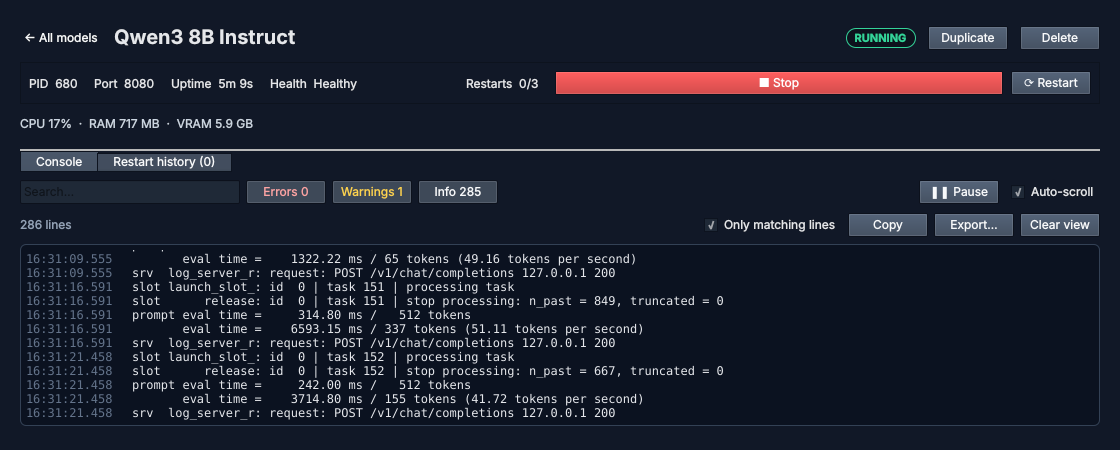
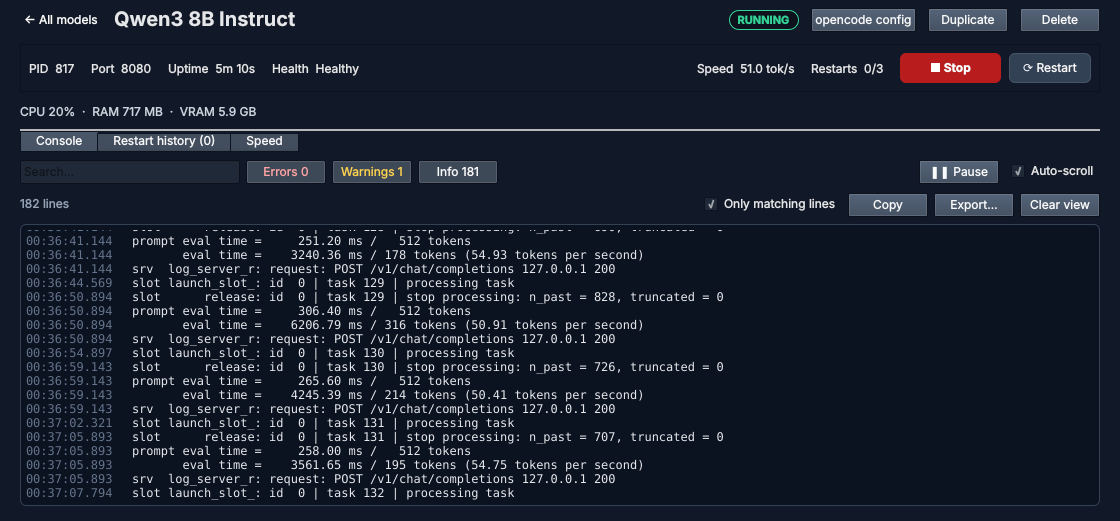
docs: refresh the README and screenshots for 0.2.0
Describe the alias, the opencode config, and generation speed in the introduction, features, getting started, everyday use, and limitations; replace the screenshots and add the speed tab and opencode dialog; mark CI releases as done in the roadmap.

Claude-Session: https://claude.ai/code/session_011M7cGVZ1QATJ6LT2vgEiWh

Changed region(s): [[0.0, 0.4044, 0.6562, 0.9644], [0.0, 0.0, 1.0, 0.5289], [0.4062, 0.0, 1.0, 0.2178]]

diff --git a/README.md b/README.md
@@ -2,7 +2,7 @@
 
 **A Windows desktop app for running and supervising local [llama.cpp](https://github.com/ggml-org/llama.cpp) `llama-server` instances.**
 
-Point it at your own `llama-server.exe` and GGUF models, then start, stop, and monitor any number of models from one window. A background Agent keeps them running when the window is closed, restarts crashed or unresponsive servers, and shows CPU, RAM, GPU, and VRAM usage live.
+Point it at your own `llama-server.exe` and GGUF models, then start, stop, and monitor any number of models from one window. A background Agent keeps them running when the window is closed, restarts crashed or unresponsive servers, and shows CPU, RAM, GPU, and VRAM usage and each model's generation speed live. Give a model a stable ID and it hands you a ready-made [opencode](https://opencode.ai) config for it.
 
 ![Platform](https://img.shields.io/badge/platform-Windows%2010%20%7C%2011%20x64-0078D6)
 ![Qt](https://img.shields.io/badge/Qt-6.5%2B-41CD52)
@@ -10,27 +10,29 @@ Point it at your own `llama-server.exe` and GGUF models, then start, stop, and m
 ![CMake](https://img.shields.io/badge/CMake-3.24%2B-064F8C)
 [![License: MIT](https://img.shields.io/badge/license-MIT-blue)](LICENSE)
 
-![Llama Server Manager dashboard with five models and live CPU, RAM, GPU, and VRAM charts](docs/images/dashboard.png)
+![Llama Server Manager dashboard with five models, their generation speed, and live CPU, RAM, GPU, and VRAM charts](docs/images/dashboard.png)
 
 ## Features
 
-- **Many models, one window** — every model is a card with its state, address, PID, uptime, and one-click Start/Stop and Restart. Each model has its own profile: executable, GGUF file, context size, GPU layers, threads, parallel slots, extra arguments, and environment variables.
+- **Many models, one window** — every model is a card with its state, address, PID, uptime, generation speed, and one-click Start/Stop and Restart. Each model has its own profile: executable, GGUF file, context size, GPU layers, threads, parallel slots, extra arguments, and environment variables.
 - **Keeps running without the GUI** — models are owned by a separate Agent process. Close the window (or let it crash) and your servers keep serving; reopen it and everything reconnects.
 - **Watchdog** — HTTP health checks on `/health`, crash detection, and automatic restarts with exponential backoff and a restart limit, so a broken model does not restart forever. A manual Stop is always respected. Every failure is kept in a restart history.
 - **Live resource dashboard** — system CPU and RAM plus NVIDIA GPU utilization, VRAM, temperature, and power, each with a 5-minute chart. Every model card also shows that server's own CPU, RAM, and VRAM.
 - **Console** — live stdout/stderr per model with search, Error/Warning/Info filters, pause, copy, and export. Logs are also written to disk with size limits and rotation.
 - **Lives in the system tray** — closing the window keeps everything running in the tray, with a status dot, per-model Start/Stop/Restart, and a notification when a model fails. Optionally start at sign-in, with your chosen models loading automatically.
-- **Generation speed** — tokens per second for each model, read from llama-server's `/slots` once per second, with a 5-minute chart on the model page.
-- **Ready for opencode** — give a model a stable `--alias` ID, then let the model page read `/v1/models` and `/props` and produce an `opencode.json` provider entry to copy.
+- **Generation speed** — tokens per second for each model, read from llama-server's `/slots` once per second: live on every card, with the last request's average and a 5-minute chart on the model page.
+- **Ready for opencode** — tick **Alias** to give a model a stable API model ID (`--alias`) instead of its file path. While it runs, **opencode config** reads `/v1/models` and `/props` and shows an `opencode.json` provider entry with the right ID, context size, and API key, ready to copy.
 - **Convenience** — duplicate a profile to try other settings, and stop all models and the Agent with one Stop Agent button.
 - **English and Traditional Chinese** user interface, switchable at any time.
 - **Nothing extra to install** — no Docker, Python, Ollama, or LM Studio. It uses the llama.cpp build and models you already have and never modifies them.
 
 ## Screenshots
 
-| Console with level filters | 繁體中文介面 |
+| Console with level filters | Generation speed |
 | --- | --- |
-| ![A model's console with search, error/warning/info filters, and llama-server output](docs/images/console.png) | ![The dashboard in Traditional Chinese](docs/images/dashboard-zh-TW.png) |
+| ![A model's console with search, error/warning/info filters, and llama-server output](docs/images/console.png) | ![A model's Speed tab with the current tokens per second and a 5-minute chart](docs/images/speed.png) |
+| **opencode config** | **繁體中文介面** |
+| ![The opencode config dialog with a provider entry for the model's alias](docs/images/opencode.png) | ![The dashboard in Traditional Chinese](docs/images/dashboard-zh-TW.png) |
 
 The screenshots use sample data produced by the test doubles in [`tests/`](tests) (a stand-in server and NVML library), not a real GPU.
 
@@ -62,11 +64,11 @@ The releases are not code-signed yet, so the first time you run them Windows Sma
 ## Getting started
 
 1. Run the installer, or `llama-manager.exe` from a build. It starts the Agent in the background.
-2. Click the **+** card, give the model a name, and use **Browse…** to select your `llama-server.exe` and `.gguf` file. Adjust the port, context size, GPU layers, and other options, then click **Add model**.
+2. Click the **+** card, give the model a name, and use **Browse…** to select your `llama-server.exe` and `.gguf` file. Tick **Alias** if clients should call the model by a fixed ID (it starts as the name). Adjust the port, context size, GPU layers, and other options, then click **Add model**.
 3. Click **▶ Start** on the card. The Agent checks the executable's `--help` output, launches it, and keeps the model in `STARTING` until `GET /health` answers 200, then shows `RUNNING`.
-4. Point your client at `http://127.0.0.1:<port>` (llama-server's OpenAI-compatible API).
+4. Point your client at `http://127.0.0.1:<port>/v1` (llama-server's OpenAI-compatible API). For opencode, open the model's page and click **opencode config**.
 
-Click a card to open its page with the full profile, the **Console**, and the **Restart history**.
+Click a card to open its page with the full profile, the **Console**, the **Restart history**, and the **Speed** chart.
 
 ### Everyday use
 
@@ -79,10 +81,14 @@ Click a card to open its page with the full profile, the **Console**, and the **
 | Stop all models and the Agent | **Stop Agent** (top right), then confirm. Start it again with **Start Agent**. |
 | Start a model whenever the Agent starts | Check **Start automatically when the Agent starts** in its profile. |
 | Try different settings | **Duplicate** on the model page creates an unsaved copy on the next free port. |
+| Keep the API model ID when files move | Tick **Alias** in the profile. Without it, llama-server reports the model file path as the ID. |
+| Use a model in opencode | Start it, click **opencode config** on its page, then **Copy** and paste into `opencode.json` (add the provider to an existing `"provider"` section). |
+| See how fast a model generates | The speed line on its card, or the **Speed** tab on its page. |
+| Update the app | Install the new version. If the main page then says the running Agent is from an older version, click **Restart Agent**. |
 | Change how often resources refresh | **Refresh every** (1–10 s) above the resource tiles. |
 | Switch language | The **EN / 中文** button. |
 
-Extra arguments are entered as a JSON array (`["--flash-attn", "on"]`) and environment variables as a JSON object (`{"CUDA_VISIBLE_DEVICES": "0"}`). Options the manager sets itself (`-m`, `-c`, `-ngl`, `-t`, `--host`, `--port`, `--parallel`, `--metrics`) cannot be overridden there.
+Extra arguments are entered as a JSON array (`["--flash-attn", "on"]`) and environment variables as a JSON object (`{"CUDA_VISIBLE_DEVICES": "0"}`). Options the manager sets itself (`-m`, `-c`, `-ngl`, `-t`, `--host`, `--port`, `--parallel`, `--metrics`, `--alias`) cannot be overridden there. Profiles saved by 0.1.0 that pass `--alias` as an extra argument are moved to the **Alias** option automatically.
 
 ### Watchdog defaults
 
@@ -108,6 +114,8 @@ Deleting a model deletes its log folder; the model file itself is never touched.
 - The Agent refuses to start a model on a port another running model uses, but it does not check whether there is enough VRAM for all of them.
 - The Agent's named pipe is limited to the current Windows user. It is not a security boundary against other programs running as that user.
 - Log levels in the console are inferred from the text, since llama.cpp does not label its output.
+- Generation speed comes from llama-server's `/slots` endpoint, which is on by default; a model started with `--no-slots` shows the speed as off. It counts generated tokens across all slots, not prompt processing. The 5-minute speed chart is collected by the window, so it starts empty when the window opens.
+- With `--api-key` in the extra arguments, the opencode config includes that key. Keep it in mind before sharing the file.
 
 ## Building from source
 
@@ -182,11 +190,13 @@ docs/           Design and test documentation
 
 ## Roadmap
 
-Done: GUI and Agent (Phase 1), watchdog (Phase 2), dashboard, multiple models, and console (Phase 3), profile duplication, auto start, and Stop Agent, and desktop integration (Phase 4): system tray, start at sign-in, and the Windows installer.
+Done:
+
+- **0.1.0** — GUI and Agent (Phase 1), watchdog (Phase 2), dashboard, multiple models, and console (Phase 3), profile duplication, auto start, and Stop Agent, desktop integration (Phase 4: system tray, start at sign-in, Windows installer), and prebuilt releases built by CI.
+- **0.2.0** — model alias, opencode config, generation speed on the cards and model page, and a prompt to restart an Agent left running from an older version.
 
 Next:
 
-- Prebuilt releases on GitHub, built by CI
 - Signed release builds
 - macOS app bundle and DMG, Linux packages (the tray and start-at-sign-in code already has macOS and Linux backends)
 
